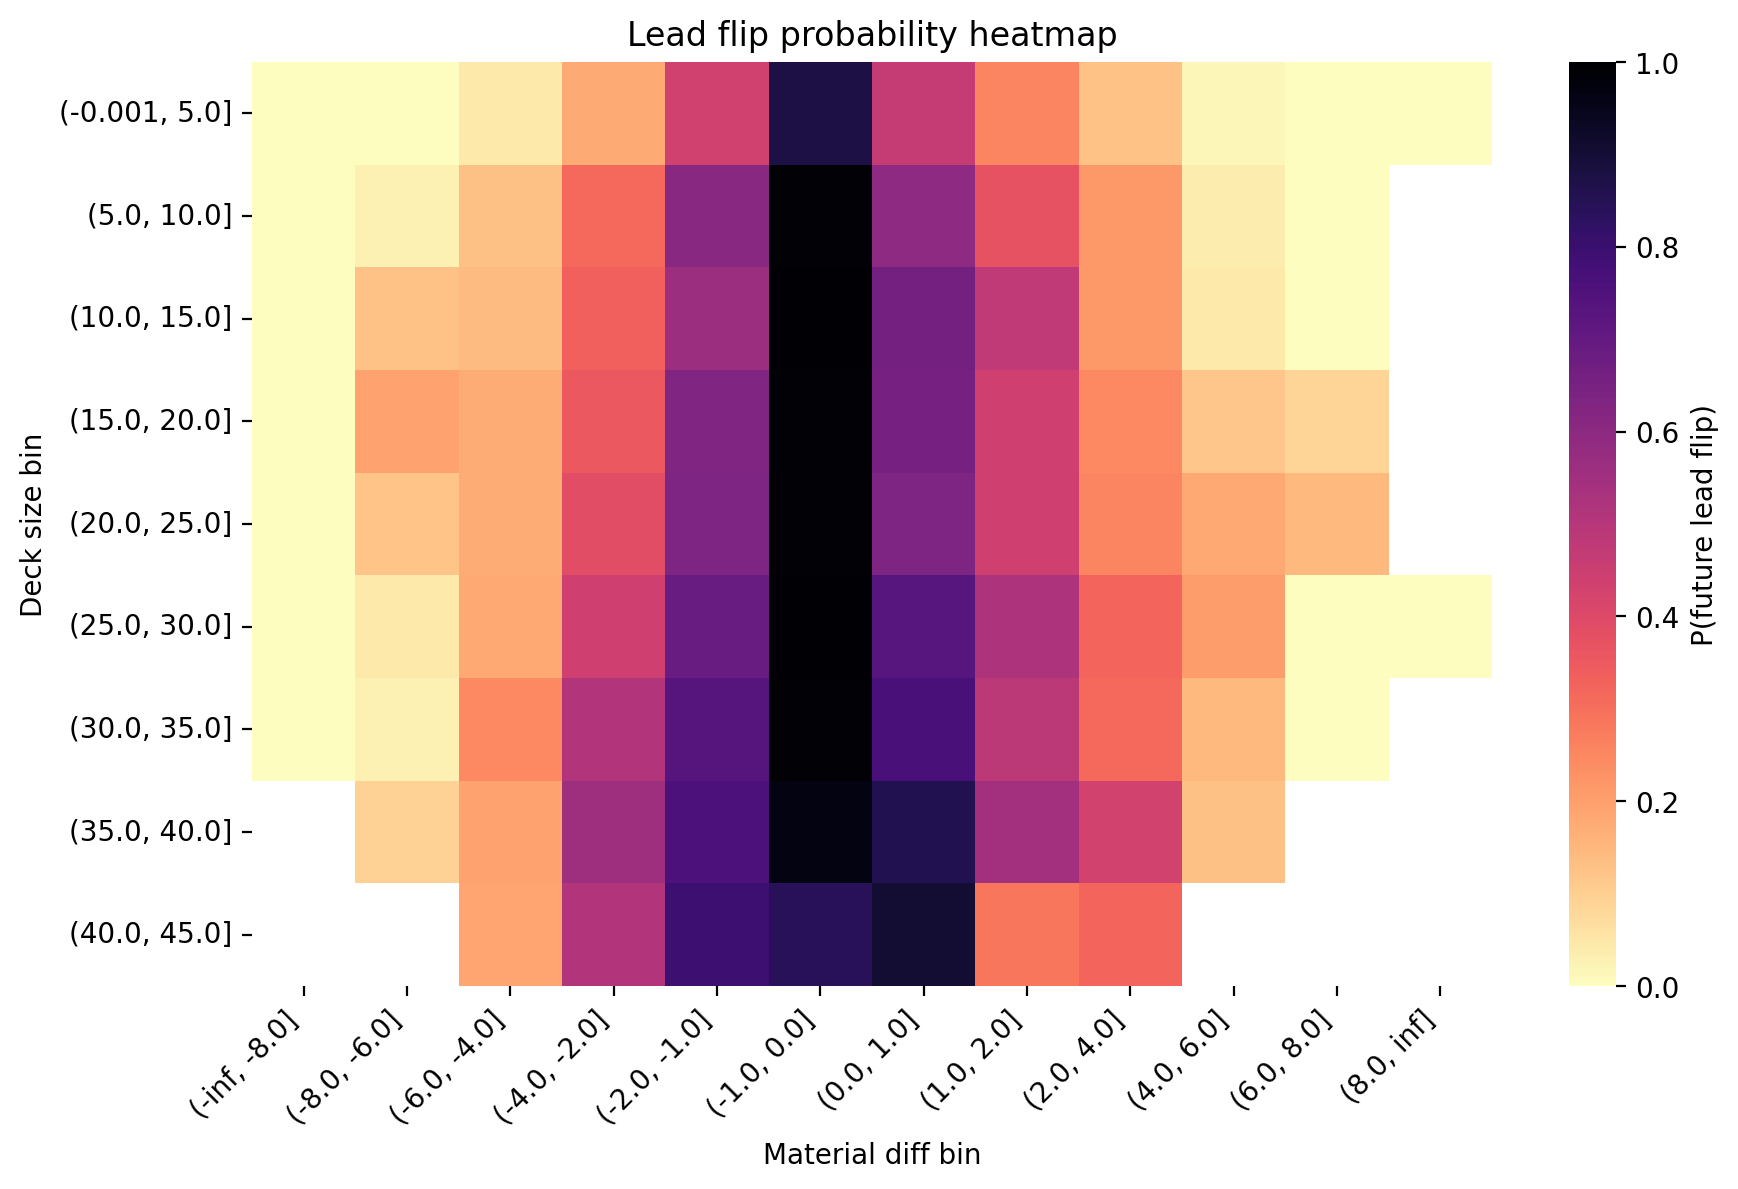
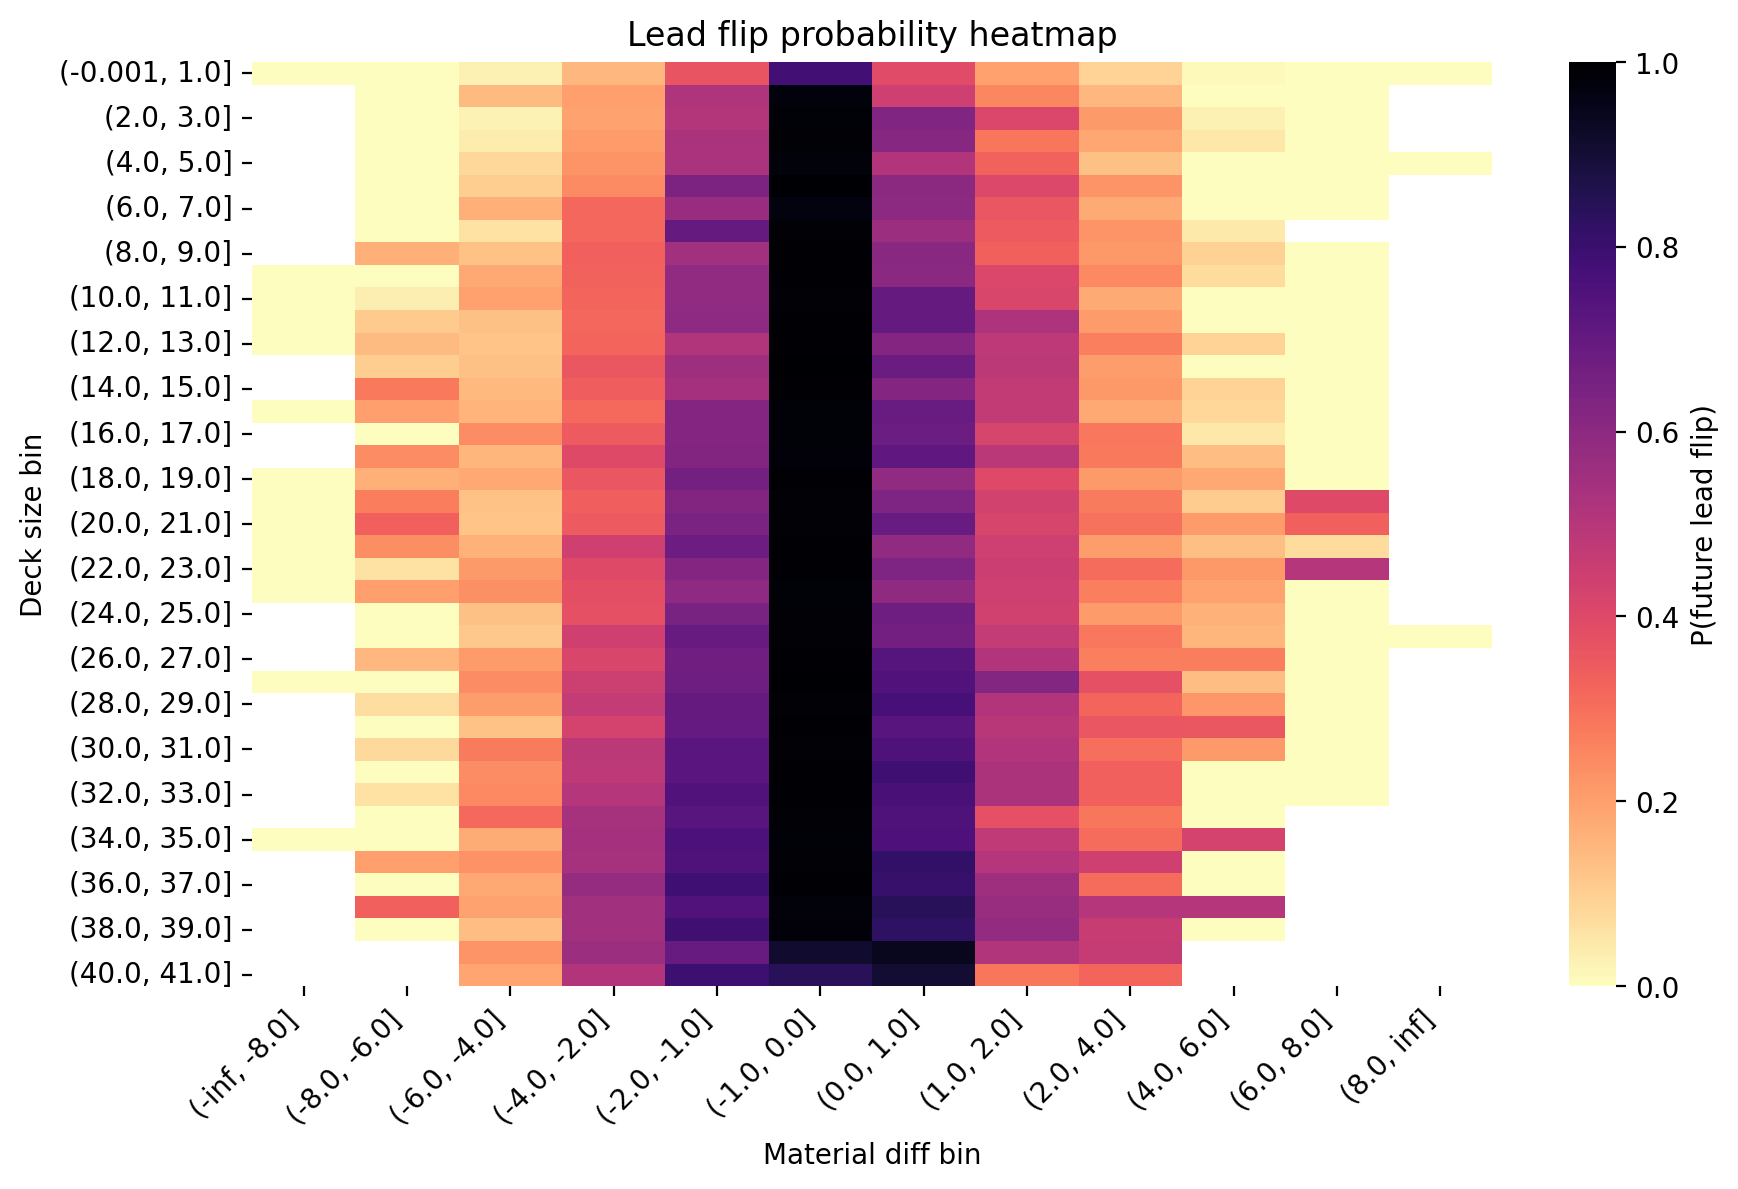
hmm

diff --git a/src/cuttle_analysis/metrics.py b/src/cuttle_analysis/metrics.py
@@ -231,16 +231,7 @@ def move_type_material_deltas(df: pd.DataFrame) -> pd.DataFrame:
     """
     Compute change in material_diff per moveType.
     """
-    frames = []
-    for _, group in df.sort_values(["gameId_hashed", "move_number"]).groupby(
-        "gameId_hashed", sort=False
-    ):
-        diff = group["material_diff"].to_numpy()
-        delta = np.diff(diff, prepend=diff[0])
-        g = group.copy()
-        g["material_diff_delta"] = delta
-        frames.append(g)
-    enriched = pd.concat(frames, ignore_index=True)
+    enriched = add_move_values(df)
     return (
         enriched.groupby("moveType", dropna=False)
         .agg(
@@ -249,6 +240,8 @@ def move_type_material_deltas(df: pd.DataFrame) -> pd.DataFrame:
             median_delta=("material_diff_delta", "median"),
             p90_delta=("material_diff_delta", lambda x: np.nanpercentile(x, 90)),
             p10_delta=("material_diff_delta", lambda x: np.nanpercentile(x, 10)),
+            avg_move_value=("move_value", "mean"),
+            median_move_value=("move_value", "median"),
         )
         .reset_index()
     )
@@ -256,6 +249,21 @@ def move_type_material_deltas(df: pd.DataFrame) -> pd.DataFrame:
 
 def _game_groups(df: pd.DataFrame):
     return df.sort_values("move_number").groupby("gameId_hashed", sort=False)
+
+
+def add_move_values(df: pd.DataFrame) -> pd.DataFrame:
+    """Attach material_diff deltas per row (move value = current diff minus previous diff)."""
+    frames = []
+    for _, group in df.sort_values(["gameId_hashed", "move_number"]).groupby(
+        "gameId_hashed", sort=False
+    ):
+        diff = group["material_diff"].to_numpy()
+        delta = np.diff(diff, prepend=diff[0])
+        g = group.copy()
+        g["material_diff_delta"] = delta
+        g["move_value"] = delta
+        frames.append(g)
+    return pd.concat(frames, ignore_index=True)
 
 
 def first_mover_win_rates(df: pd.DataFrame) -> pd.DataFrame:

diff --git a/src/cuttle_analysis/cli.py b/src/cuttle_analysis/cli.py
@@ -69,7 +69,7 @@ def parse_args() -> argparse.Namespace:
     parser.add_argument(
         "--deck-bin-width",
         type=int,
-        default=5,
+        default=1,
         help="Deck size bin width for heatmaps (cards remaining).",
     )
     parser.add_argument(

diff --git a/takeaways.md b/takeaways.md
@@ -2,14 +2,14 @@
 
 Key outputs live in `artifacts/`:
 - Tables: `win_rates_by_diff.csv`, `flip_rates_by_diff.csv`, `deck_depth_stats.csv`, `win_rates_by_deck_and_diff.csv`, `decisive_lead_timing.csv`, `move_type_material_deltas.csv`, `first_mover_win_rates.csv`, `first_points_win_rates.csv`, `first_kings_win_rates.csv`
-- Plots: `win_prob_logit.png`, `win_prob_by_deck.png`, `flip_rate.png`, `flip_rate_by_deck.png`, `win_rate_by_deck.png`
+- Plots: `win_prob_logit.png`, `win_prob_by_deck.png`, `flip_rate.png`, `flip_rate_by_deck.png`, `win_rate_by_deck.png`, `win_rate_heatmap.png`, `flip_rate_heatmap.png`, `lead_timing.png`, `move_deltas.png`, `first_mover.png`, `first_points.png`, `first_kings.png`
 
 ## Big picture
-- Material diff is informative but not decisive until ~±4: leaders win ~82–91% when diff in (2,4] or (4,6], and flip risk falls below ~0.27 beyond +2. Small edges (|diff|≤2) flip often (46–73%).
-- Deck depth matters: with a short deck (Q1 in the legends), even +2 is fairly steady (flip ~0.20; leader wins ~56%), while deep-deck states (Q4/Q5) need ~+4 for similar confidence.
-- Lead timing: eventual winners hit +2 at move ~16 (77% of games), +4 at move ~34 (39% of games), +6 at move ~49 (9% of games). Only ~42% of games keep the first +2 lead to the end; ~35% keep the first +4.
-- Moves that shift material most: scuttles and counters add material; point plays usually spend material (median -1); seven → scuttle/Jack spikes; draws mildly plus; faceCard plays slightly negative on average.
-- Win-prob curves: logistic fits cross 60/70/80% p0 win odds around +1.3/+2.3/+3.6 overall; thresholds are lower (smaller diff needed) in low-deck buckets.
+- Material diff is informative but not decisive until ~±4: leaders win ~82–91% when diff in (2,4] or (4,6]; flip risk drops to ~0.26 at +2 to +4 and ~0.11 at +4 to +6. Small edges (|diff|≤2) flip often (≥0.5, ~0.96–0.99 near 0).
+- Deck depth: shallow decks stabilize faster than deep ones; near-zero leads flip frequently across buckets; bigger leads (≥+4) are robust even with many cards left.
+- Lead timing: eventual winners hit +2 around move ~16 (77% of games), +4 at move ~34 (39% of games), +6 at move ~49 (9% of games). Staying ahead after the first +2 remains hard (~24% stable in this run).
+- Moves that shift material most (move value = change in diff per move): scuttles (~+0.07 on average, median +1) and counters (+0.05, median +1) add material; point plays (-0.07, median -1) and face cards (-0.04, median -0.5) typically spend material; drawing is mildly plus (~+0.04). Seven-to-scuttle stands out (~+0.6 average).
+- Win-prob curves: advantage becomes strong around +3–4; flip probabilities peak near zero diff regardless of deck depth.
 - Initiative and first actions:
   - First mover (player on move 1) wins ~51.6% overall (slight edge).
   - First to play points: if P1 plays points first, they win ~57%; if P0 plays points first, they win ~46%.

diff --git a/codex-action-log.md b/codex-action-log.md
@@ -14,15 +14,19 @@
 - Clarified the point-card caveat: only count offensive cards that reduce the number of turns/cards to win (e.g., King + small point that doesn’t change card count is ignored).
 - Agreed to analyze across all states, not just final rows, and to stratify by deck size because it’s public information.
 - User requested linting with ruff, visuals, and a written takeaway document; also asked to ensure code matches the described metric.
+- Later requests: treat move value as the raw change in material diff between successive states (no actor-alignment), keep deck-depth variants and zero-diff flip handling, rerun the full CLI after code updates, and keep this log/takeaways in sync.
+ - Asked to make deck-depth views more granular/continuous and ensure plots refresh accordingly.
 
 ## What was done
 - Built a Python package (`pyproject.toml`) with modules:
   - `data_loader`: CSV parsing/coercion, helper columns.
   - `material`: material score implementation with caps and “extra offensive card” exclusion.
-  - `metrics`: win/flip tables, deck-aware variants, decisive-lead timing, move-type deltas, first-mover/first-points/first-kings win rates.
+  - `metrics`: win/flip tables, deck-aware variants, decisive-lead timing, move-type deltas (including move value = diff delta), first-mover/first-points/first-kings win rates.
   - `visuals`: logistic win-probability plots, flip-probability plots, win-rate plots (overall and by deck depth with legends), plus heatmaps over material diff × deck size.
   - `cli`: runs the full analysis and writes artifacts.
 - Generated artifacts in `artifacts/`: summary tables, win/flip plots, first-action win-rate tables, heatmaps, and `takeaways.md` with player-facing guidance.
 - Ran linting (`ruff check src`, clean).
 - Verified implementation aligns with the metric text (caps on glasses/queens, ignore non-contributing points, exclude jacks, +0.5 turn bonus).
 - Fixed flip-probability computation to ignore zero-diff (no-leader) states; flip means a leader changing sign. Regenerated all artifacts/plots accordingly, and added deck-size heatmaps (bin width configurable).
+- Reset back to the initial commit when asked, re-applied the move-value change (diff delta per move), reran the CLI on `first_100k_gamestates.csv` to refresh every table/plot, and updated `takeaways.md` to reflect the latest outputs.
+- Increased deck-depth heatmap granularity (default deck bin width to 1 card) and reran the CLI so PNGs and tables reflect the finer deck-size resolution.

diff --git a/README.md b/README.md
@@ -11,7 +11,7 @@ uv run cuttle-analyze --csv first_100k_gamestates.csv --output-dir artifacts
 
 ## What it computes
 - Material score per state: 1/hand card, 2/board card (jacks excluded), +0.5 if your turn; glasses cap at 1, queens cap at 2; point cards that do not lower cards-to-win (given kings/points) count as 0.
-- Metrics/tables: win/flip by diff, deck-aware variants, decisive-lead timing, move-type deltas, first-mover/first-points/first-king win rates.
+- Metrics/tables: win/flip by diff, deck-aware variants, decisive-lead timing, move-type deltas (move value = change in material diff per move), first-mover/first-points/first-king win rates.
 - Plots: win probability (overall/by deck depth), flip probability (overall/by deck depth), win rate (overall/by deck depth), lead-timing bars, move-delta bars, first-action bars, plus heatmaps (win/flip) over material diff × deck size.
 
 ## CLI options (common)
@@ -19,7 +19,7 @@ uv run cuttle-analyze --csv first_100k_gamestates.csv --output-dir artifacts
 - `--output-dir`: where to write tables/plots (default none).
 - `--diff-bins`: comma-separated material diff bin edges.
 - `--deck-quantiles`: quantile buckets for deck-depth tables (default 5).
-- `--deck-bin-width`: deck-size bin width (cards remaining) for heatmaps (default 5).
+- `--deck-bin-width`: deck-size bin width (cards remaining) for heatmaps (default 1).
 - `--lead-margins`: margins for decisive-lead timing (comma-separated).
 
 ## Notes / misc
